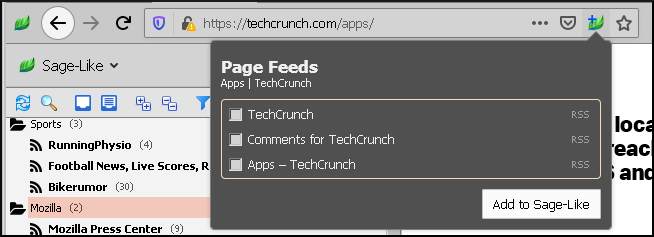
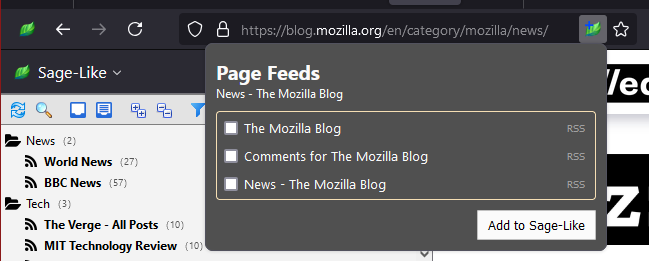
Updated PR images and mozilla-extension-page.txt

diff --git a/.misc/tasks.md b/.misc/tasks.md
@@ -1183,7 +1183,6 @@
 
 
 ## Now
-* test all in v109
 > STANDING TASK: Check the </select> control in the preferences page. Are the colors of the </option> in dark mode are readable when hoverd
 ---
 
